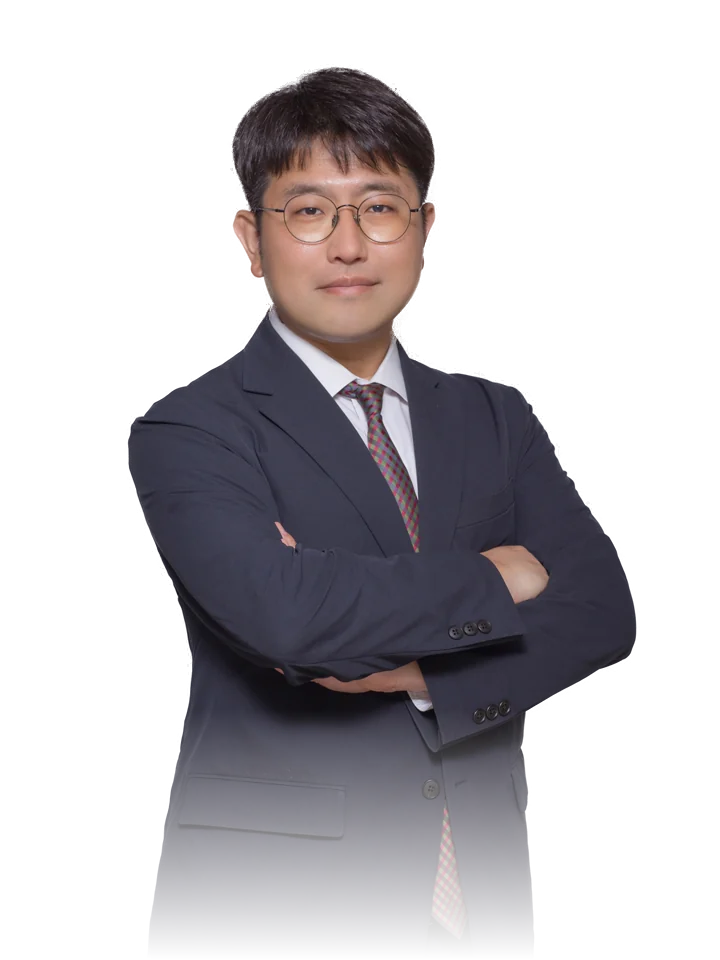
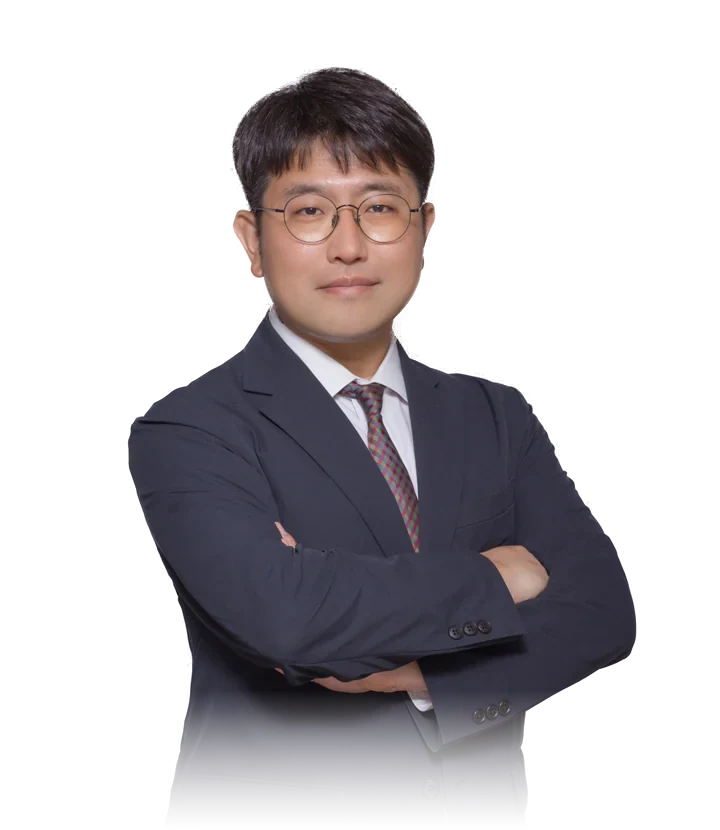
Version 107: 첫 화면 SNS 삭제, 사진 상반신 위주, 휴대전화 길잡이 강조, 길잡이 02·03 순서
Claude-Session: https://claude.ai/code/session_01Vj9NYDYGDNZuFCmrfNSL4A

Changed region(s): [[0.1528, 0.0602, 0.8861, 0.9639], [0.3667, 0.5422, 0.4278, 0.5723]]

diff --git a/index.html b/index.html
@@ -1076,6 +1076,21 @@ button.adv-fig:hover { border-color: var(--ink-soft); }
   .past-grid .adv { grid-template-columns: 2.75rem minmax(0, 1fr); gap: 0.6rem; padding-bottom: 0.35rem; }
   .past-grid .adv-body .org { font-size: var(--step--2); }
 }
+
+/* ---------- 휴대전화의 '무엇을 찾으시나요?' 강조 (2026. 10. 17., Version 107) ----------
+   정보가 많아 보이는 작은 화면에서는 길잡이가 길 안내 역할을 하도록: 제목을 크게, 항목은 한 줄씩 넓은 행(번호 · 제목 · 먹색 알약)으로, 행 전체가 눌린다. */
+@media (max-width: 640px) {
+  .finder { gap: 0.8rem; padding-block: 1.4rem 1.6rem; }
+  .finder .cap { font-family: var(--serif); font-size: var(--step-1); font-weight: 600; letter-spacing: -0.01em; color: var(--ink); }
+  .finder-list { grid-template-columns: minmax(0, 1fr); gap: 0.55rem; }
+  .finder-list a { display: grid; grid-template-columns: auto minmax(0, 1fr); grid-template-rows: auto auto; column-gap: 0.75rem; row-gap: 0.45rem; align-items: center; padding: 0.85rem 0.95rem 0.9rem; border-color: var(--ink-soft); }
+  .finder-list .no { grid-row: 1; grid-column: 1; align-self: center; font-size: var(--step--1); }
+  .finder-list b { grid-row: 1; grid-column: 2; font-size: var(--step-0); line-height: 1.35; }
+  .finder-list .w { display: none; }
+  .finder-list .go { grid-row: 2; grid-column: 2; justify-self: start; margin: 0; padding: 0.3rem 0.8rem; font-size: var(--step--2); font-weight: 600; color: var(--paper); background: var(--ink); border-radius: 999px; white-space: nowrap; }
+  .finder-list a:active { border-color: var(--seal); }
+  .finder-list a:active .go { background: var(--seal); }
+}
 </style>
 </head>
 <body>
@@ -1139,7 +1154,6 @@ button.adv-fig:hover { border-color: var(--ink-soft); }
           <a href="tel:+82-2-588-8685" aria-label="사무실 전화 02-588-8685로 전화">전화 02-588-8685</a>
           <a href="mailto:boo@keumseonglaw.com">boo@keumseonglaw.com</a>
         </p>
-        <div class="sns icons" id="sns-hero" aria-label="온라인 계정"></div>
         <div class="hero-stats" aria-label="핵심 숫자">
           <div><span class="n">소송·자문 약 3,300건</span><span class="l">정부법무공단 6년 약 1,500건 (2015 ~ 2021) · 개업 후 소송·신청·행정심판 약 540건, 법률자문 약 1,300건</span></div>
           <div><span class="n">국가로펌 출신 변호사</span><span class="l">정부법무공단 변호사 · 국가·지방자치단체·공공기관의 행정·국가·헌법소송과 자문 · 법무부장관 표창 (국가소송 유공)</span></div>
@@ -1149,7 +1163,7 @@ button.adv-fig:hover { border-color: var(--ink-soft); }
       </div>
 
       <figure class="portrait">
-        <img src="photo-hero.webp" alt="변호사 부효준" width="720" height="960" fetchpriority="high">
+        <img src="photo-hero.webp" alt="변호사 부효준" width="720" height="830" fetchpriority="high">
       </figure>
     </section>
 
@@ -1157,8 +1171,8 @@ button.adv-fig:hover { border-color: var(--ink-soft); }
       <p class="cap" id="finder-cap">무엇을 찾으시나요?</p>
       <ol class="finder-list">
         <li><a href="#faq"><span class="no">01</span><b>처분서를 받았습니다</b><span class="w">언제까지 무엇을 해야 하는지 — 이의신청·행정심판·소송의 기한과 집행정지</span><span class="go">자주 묻는 질문 →</span></a></li>
-        <li><a href="#rnd"><span class="no">02</span><b>국가연구개발 제재처분을 받았습니다</b><span class="w">사전통지 20일, 재검토, 처분 뒤 불복 90일 — 절차와 기한, 자주 다투는 쟁점</span><span class="go">국가연구개발 제재처분 →</span></a></li>
-        <li><a href="#fields"><span class="no">03</span><b>어느 분야의 사건인지</b><span class="w">제재부가금·환수, 공무원·교원 인사처분, 인허가·면허, 손실보상, 그 밖의 행정처분, 형사, 국가배상, 법률자문</span><span class="go">다루는 사건 →</span></a></li>
+        <li><a href="#fields"><span class="no">02</span><b>어느 분야의 사건인지</b><span class="w">제재부가금·환수, 공무원·교원 인사처분, 인허가·면허, 손실보상, 그 밖의 행정처분, 형사, 국가배상, 법률자문</span><span class="go">다루는 사건 →</span></a></li>
+        <li><a href="#rnd"><span class="no">03</span><b>국가연구개발 제재처분을 받았습니다</b><span class="w">사전통지 20일, 재검토, 처분 뒤 불복 90일 — 절차와 기한, 자주 다투는 쟁점</span><span class="go">국가연구개발 제재처분 →</span></a></li>
         <li><a href="#record"><span class="no">04</span><b>비슷한 사건의 판결</b><span class="w">분야를 고르거나 낱말로 찾아보는 주요 수행 사례와 판결문</span><span class="go">주요 수행 사례 →</span></a></li>
         <li><a href="#career"><span class="no">05</span><b>변호사가 어떤 사람인지</b><span class="w">경력과 학력, 법률고문 위촉, 위원회·강의</span><span class="go">경력 →</span></a></li>
       </ol>
